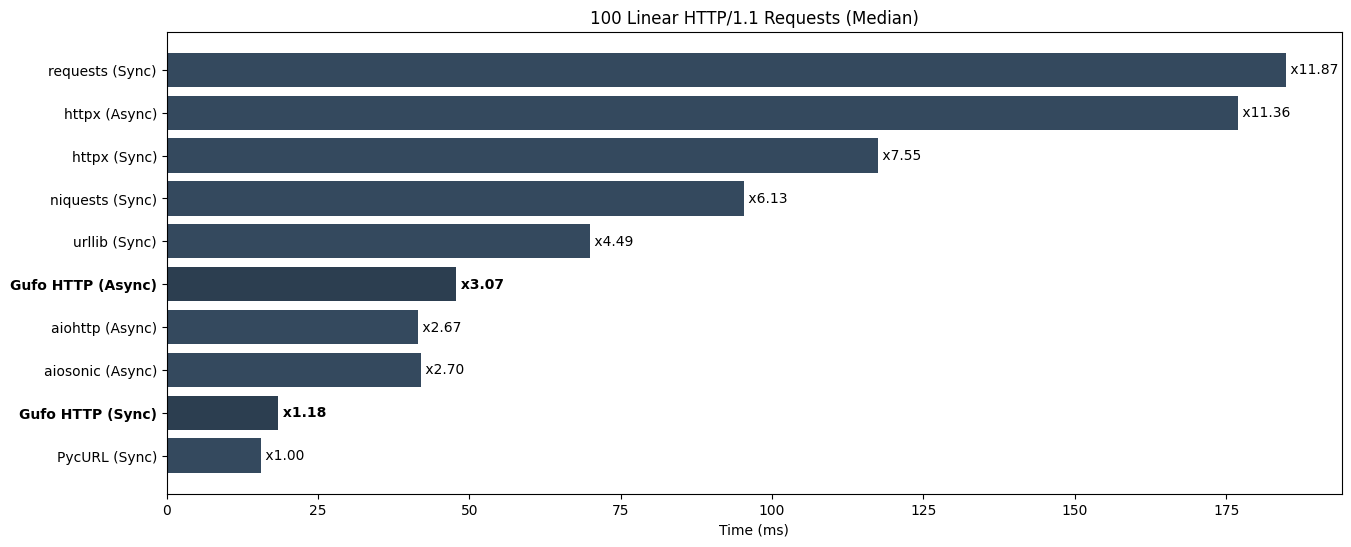
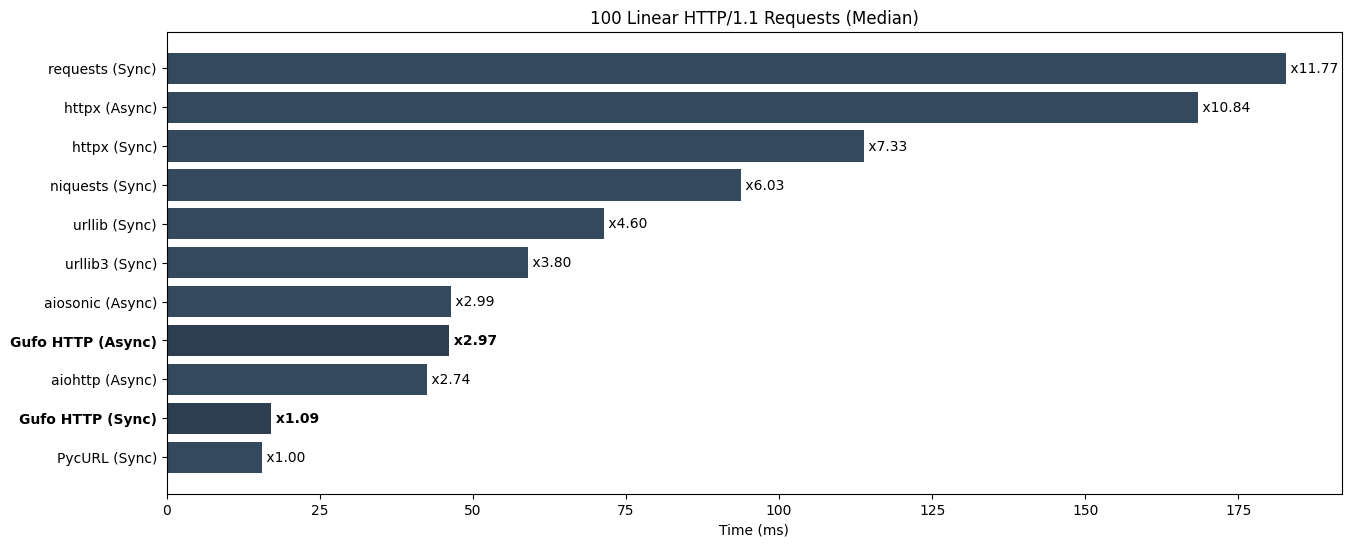
New benchmark results

diff --git a/tools/docs/update-bench-charts.py b/tools/docs/update-bench-charts.py
@@ -178,7 +178,7 @@ def iter_results(path: str) -> Iterable[Tuple[str, List[Tuple[str, float]]]]:
 def main() -> None:
     """Main function."""
     for bench, (scale, data) in zip(
-        BENCHMARKS, iter_results("benchmarks/README.md")
+        BENCHMARKS, iter_results("docs/benchmarks.md")
     ):
         build_barchart(bench, data, scale)
 

diff --git a/benchmarks/README.md b/benchmarks/README.md
@@ -1,227 +1,10 @@
----
-hide:
-    - navigation
----
-# Python HTTP Clients Benchmark
+# Gufo HTTP Bencmarks Suite
 
-!!! warning
+This directory contains Gufo HTTP benchmark suite
+which evaluates performance agains most commonly
+used Python HTTP Clients.
 
-    All following information is provided only for reference.
-    These tests are performed by [Gufo Labs][Gufo Labs] to estimate the performance
-    of [Gufo HTTP][Gufo HTTP] against major competitors, so they cannot be considered
-    independent and unbiased.
+See [bencmark section][benchmarks] for latest
+actual report.
 
-    Although performance is an absolute requirement for [Gufo Stack][Gufo Stack],
-    other factors such as maturity, community, features, examples, and existing code base
-    should also be considered.
-
-We're comparing:
-
-- [Gufo HTTP][Gufo HTTP] (current version)
-- [aiohttp][aiohttp]
-- [aiosonic][aiosonic]
-- [httpx][httpx]
-- [requests][requests]
-- [niquests][niquests]
-- [PycURL][pycurl]
-- [urllib][urllib] from Python standard library
-- [urllibb3][urllib3]
-
-Both synchronous and asynchronous tests are conducted if supported by the library.
-Libraries are tested against a local nginx installation provided by the `gufo.http.httpd` wrapper.
-We're using median value to rank the benchmarks.
-
-## Preparing
-
-We're using AWS EC2 t2.xlarge (64 bit) instance with Debian 12.
-
-Prepare node:
-```
-sudo apt-get update
-sudo apt-get install --yes git python3.11-venv
-python3 -m venv bench
-cd bench
-. bin/activate
-```
-
-Clone repo:
-```
-git clone https://github.com/gufolabs/gufo_http.git
-cd gufo_http
-```
-
-Install local nginx:
-```
-./tools/build/setup-nginx.sh
-```
-
-Install dependencies:
-
-```
-pip3 install -r .requirements/test.txt -r .requirements/bench.txt gufo-http
-```
-
-## Single HTTP/1.1 Requests
-
-Perform http requests to read 1kb text file. This test evaluates:
-
-* The cost of client's initialization.
-* The efficiency of the network code.
-* The efficiency HTTP/1.1 parser. 
-
-Run tests:
-```
-pytest benchmarks/test_single_x100_1k.py
-```
-
-### Results (lower is better)
-```
-================================================================= test session starts =================================================================
-platform linux -- Python 3.11.2, pytest-7.4.3, pluggy-1.4.0
-benchmark: 4.0.0 (defaults: timer=time.perf_counter disable_gc=False min_rounds=5 min_time=0.000005 max_time=1.0 calibration_precision=10 warmup=False warmup_iterations=100000)
-rootdir: /home/admin/bench/gufo_http
-plugins: anyio-4.3.0, benchmark-4.0.0
-collected 10 items                                                                                                                                    
-
-benchmarks/test_single_x100_1k.py ..........                                                                                                    [100%]
-
-
------------------------------------------------------------------------------------------------ benchmark: 10 tests -----------------------------------------------------------------------------------------------
-Name (time in us)                Min                    Max                   Mean                StdDev                 Median                   IQR            Outliers         OPS            Rounds  Iterations
--------------------------------------------------------------------------------------------------------------------------------------------------------------------------------------------------------------------
-test_pycurl_sync            552.7600 (1.0)         912.4570 (1.0)         627.4404 (1.0)         47.1721 (1.06)        614.9810 (1.0)         50.2328 (1.00)       121;29  1,593.7769 (1.0)         577           1
-test_urllib_sync            642.2560 (1.16)        942.6400 (1.03)        716.9010 (1.14)        44.3196 (1.0)         707.1500 (1.15)        50.1018 (1.0)         83;13  1,394.8927 (0.88)        319           1
-test_gufo_http_sync         974.8750 (1.76)      2,369.4640 (2.60)      1,078.5705 (1.72)        84.3947 (1.90)      1,064.8040 (1.73)        68.3635 (1.36)        43;13    927.1531 (0.58)        449           1
-test_gufo_http_async      1,412.6310 (2.56)      2,331.5960 (2.56)      1,563.8148 (2.49)        96.4462 (2.18)      1,545.4200 (2.51)        95.4475 (1.91)        58;14    639.4619 (0.40)        377           1
-test_niquests_sync        1,550.6730 (2.81)     21,700.8490 (23.78)     1,816.3988 (2.89)       936.3856 (21.13)     1,684.6870 (2.74)       165.0163 (3.29)         3;74    550.5399 (0.35)        479           1
-test_requests_sync        1,739.7430 (3.15)      3,095.1940 (3.39)      1,887.8259 (3.01)       125.4138 (2.83)      1,861.5670 (3.03)        81.0945 (1.62)        20;16    529.7099 (0.33)        205           1
-test_aiosonic_async       1,946.5800 (3.52)      3,595.9540 (3.94)      2,181.6655 (3.48)       228.6378 (5.16)      2,110.4205 (3.43)       106.0000 (2.12)        41;42    458.3654 (0.29)        394           1
-test_aiohttp_async        2,177.3450 (3.94)      6,310.3440 (6.92)      2,371.1405 (3.78)       287.4802 (6.49)      2,336.2120 (3.80)       112.2787 (2.24)          4;6    421.7380 (0.26)        339           1
-test_httpx_sync          45,358.3610 (82.06)    59,893.9320 (65.64)    48,566.7703 (77.40)    3,721.1132 (83.96)    47,275.3950 (76.87)    1,676.9437 (33.47)         2;2     20.5902 (0.01)         21           1
-test_httpx_async         47,650.0620 (86.20)    60,349.6870 (66.14)    50,683.2971 (80.78)    3,316.6865 (74.84)    49,802.8250 (80.98)    2,193.1260 (43.77)         2;2     19.7304 (0.01)         17           1
--------------------------------------------------------------------------------------------------------------------------------------------------------------------------------------------------------------------
-
-Legend:
-  Outliers: 1 Standard Deviation from Mean; 1.5 IQR (InterQuartile Range) from 1st Quartile and 3rd Quartile.
-  OPS: Operations Per Second, computed as 1 / Mean
-================================================================= 10 passed in 9.12s ==================================================================
-```
-
-![Median chart](single_x100_1k.png)
-
-## 100 Linear HTTP/1.1 Requests
-
-Perform set of 100 linear http requests to read 1kb text file using single client session
-whenever possible. This test evaluates:
-
-* The efficiency of the network code.
-* The efficency of the HTTP/1.1 parser.
-* An ability to maintain connection pools.
-
-Run tests:
-```
-pytest benchmarks/test_linear_x100_1k.py
-```
-
-### Results (lower is better)
-```
-================================================================= test session starts =================================================================
-platform linux -- Python 3.11.2, pytest-7.4.3, pluggy-1.4.0
-benchmark: 4.0.0 (defaults: timer=time.perf_counter disable_gc=False min_rounds=5 min_time=0.000005 max_time=1.0 calibration_precision=10 warmup=False warmup_iterations=100000)
-rootdir: /home/admin/bench/gufo_http
-plugins: anyio-4.3.0, benchmark-4.0.0
-collected 10 items                                                                                                                                    
-
-benchmarks/test_linear_x100_1k.py ..........                                                                                                    [100%]
-
-
------------------------------------------------------------------------------------ benchmark: 10 tests ------------------------------------------------------------------------------------
-Name (time in ms)             Min                 Max                Mean            StdDev              Median               IQR            Outliers      OPS            Rounds  Iterations
---------------------------------------------------------------------------------------------------------------------------------------------------------------------------------------------
-test_pycurl_sync          14.8286 (1.0)       16.5635 (1.0)       15.5543 (1.0)      0.3471 (1.0)       15.5732 (1.0)      0.3715 (1.0)          16;3  64.2911 (1.0)          60           1
-test_gufo_http_sync       16.9257 (1.14)      19.6100 (1.18)      18.3076 (1.18)     0.6682 (1.93)      18.4208 (1.18)     1.0598 (2.85)         20;0  54.6223 (0.85)         52           1
-test_aiosonic_async       40.1948 (2.71)      44.1372 (2.66)      42.1504 (2.71)     1.0503 (3.03)      42.0433 (2.70)     1.4114 (3.80)         10;0  23.7246 (0.37)         24           1
-test_aiohttp_async        40.7918 (2.75)      43.3388 (2.62)      41.7451 (2.68)     0.7409 (2.13)      41.5796 (2.67)     0.9894 (2.66)          6;0  23.9549 (0.37)         24           1
-test_gufo_http_async      45.3282 (3.06)      49.3405 (2.98)      47.8282 (3.07)     0.8637 (2.49)      47.8277 (3.07)     0.7030 (1.89)          4;2  20.9082 (0.33)         21           1
-test_urllib_sync          68.0795 (4.59)      70.9134 (4.28)      69.8699 (4.49)     0.8885 (2.56)      69.9497 (4.49)     1.4723 (3.96)          5;0  14.3123 (0.22)         15           1
-test_niquests_sync        93.1297 (6.28)     120.2415 (7.26)      97.6183 (6.28)     7.5677 (21.80)     95.3918 (6.13)     1.0791 (2.90)          1;2  10.2440 (0.16)         11           1
-test_httpx_sync          116.7218 (7.87)     120.3223 (7.26)     118.3450 (7.61)     1.3440 (3.87)     117.5656 (7.55)     2.3315 (6.28)          3;0   8.4499 (0.13)          9           1
-test_httpx_async         172.9347 (11.66)    183.8432 (11.10)    177.3365 (11.40)    3.9560 (11.40)    176.9523 (11.36)    5.5285 (14.88)         2;0   5.6390 (0.09)          6           1
-test_requests_sync       181.9891 (12.27)    187.1860 (11.30)    184.6352 (11.87)    2.0526 (5.91)     184.8448 (11.87)    3.3744 (9.08)          2;0   5.4161 (0.08)          6           1
---------------------------------------------------------------------------------------------------------------------------------------------------------------------------------------------
-
-Legend:
-  Outliers: 1 Standard Deviation from Mean; 1.5 IQR (InterQuartile Range) from 1st Quartile and 3rd Quartile.
-  OPS: Operations Per Second, computed as 1 / Mean
-================================================================= 10 passed in 14.29s =================================================================
-```
-
-![Median chart](linear_x100_1k.png)
-
-## 100 Parallel HTTP/1.1 Requests
-
-Perform 100 HTTP/1.1 requests to read 1kb text file with concurrency of 4 maintaininng
-single client session per thread/coroutine.
-
-* The efficiency of the network code.
-* The efficency of the HTTP/1.1 parser.
-* An ability to maintain connection pools.
-* Granularity of the internal locs.
-* Ability to release GIL when runnning native code.
-
-Run tests:
-```
-pytest benchmarks/test_p4_x100_1k.py
-```
-
-### Results (lower is better)
-```
-================================================================= test session starts =================================================================
-platform linux -- Python 3.11.2, pytest-7.4.3, pluggy-1.4.0
-benchmark: 4.0.0 (defaults: timer=time.perf_counter disable_gc=False min_rounds=5 min_time=0.000005 max_time=1.0 calibration_precision=10 warmup=False warmup_iterations=100000)
-rootdir: /home/admin/bench/gufo_http
-plugins: anyio-4.3.0, benchmark-4.0.0
-collected 10 items                                                                                                                                    
-
-benchmarks/test_p4_x100_1k.py ..........                                                                                                        [100%]
-
-
------------------------------------------------------------------------------------- benchmark: 10 tests ------------------------------------------------------------------------------------
-Name (time in ms)             Min                 Max                Mean            StdDev              Median               IQR            Outliers       OPS            Rounds  Iterations
----------------------------------------------------------------------------------------------------------------------------------------------------------------------------------------------
-test_pycurl_sync           8.5505 (1.0)       11.6985 (1.0)        9.7086 (1.0)      0.6270 (1.0)        9.5728 (1.0)      0.8207 (1.66)         28;3  103.0011 (1.0)          99           1
-test_gufo_http_sync        8.9141 (1.04)      11.8996 (1.02)      10.2942 (1.06)     0.6789 (1.08)      10.2281 (1.07)     0.8919 (1.80)         27;0   97.1422 (0.94)         80           1
-test_gufo_http_async      31.1233 (3.64)      39.0700 (3.34)      32.9239 (3.39)     1.3814 (2.20)      32.5340 (3.40)     1.0728 (2.17)          2;1   30.3731 (0.29)         29           1
-test_aiosonic_async       34.5276 (4.04)      39.8711 (3.41)      36.3939 (3.75)     1.1697 (1.87)      36.4312 (3.81)     1.7261 (3.49)          8;1   27.4772 (0.27)         29           1
-test_aiohttp_async        38.0094 (4.45)      49.1993 (4.21)      39.3207 (4.05)     2.1364 (3.41)      38.8432 (4.06)     0.4950 (1.0)           1;2   25.4319 (0.25)         25           1
-test_urllib_sync          43.8279 (5.13)      48.2060 (4.12)      44.9540 (4.63)     0.9605 (1.53)      44.6689 (4.67)     1.0362 (2.09)          5;1   22.2449 (0.22)         21           1
-test_niquests_sync       101.4105 (11.86)    127.8796 (10.93)    105.9729 (10.92)    7.7871 (12.42)    104.0052 (10.86)    1.3018 (2.63)          1;1    9.4364 (0.09)         10           1
-test_requests_sync       166.1476 (19.43)    168.5516 (14.41)    167.5796 (17.26)    0.8505 (1.36)     167.7444 (17.52)    0.9684 (1.96)          2;0    5.9673 (0.06)          6           1
-test_httpx_sync          215.8258 (25.24)    230.6778 (19.72)    223.7639 (23.05)    5.8582 (9.34)     223.3114 (23.33)    9.0334 (18.25)         2;0    4.4690 (0.04)          5           1
-test_httpx_async         298.3353 (34.89)    303.4051 (25.94)    301.2551 (31.03)    2.0818 (3.32)     301.8729 (31.53)    3.3335 (6.73)          2;0    3.3194 (0.03)          5           1
----------------------------------------------------------------------------------------------------------------------------------------------------------------------------------------------
-
-Legend:
-  Outliers: 1 Standard Deviation from Mean; 1.5 IQR (InterQuartile Range) from 1st Quartile and 3rd Quartile.
-  OPS: Operations Per Second, computed as 1 / Mean
-================================================================= 10 passed in 14.76s =================================================================
-```
-![Median chart](p4_x100_1k.png)
-
-## Feedback
-
-If you have any ideas, comment, or thoughts on benchmark suite,
-feel free to [discuss it on GitHub][discussion].
-
-[Gufo Labs]: https://gufolabs.com/
-[Gufo Stack]: https://docs.gufolabs.com/
-[Gufo HTTP]: https://docs.gufolabs.com/gufo_http/
-[aiohttp]: https://docs.aiohttp.org/en/stable/
-[aiosonic]: https://aiosonic.readthedocs.io/en/latest/
-[httpx]: https://www.python-httpx.org
-[requests]: https://requests.readthedocs.io/en/latest/
-[niquests]: https://niquests.readthedocs.io/en/stable/
-[pycurl]: http://pycurl.io/
-[urllib]: https://docs.python.org/3/library/urllib.request.html#module-urllib.request
-[urllib3]: https://urllib3.readthedocs.io/en/stable/
-[discussion]: https://github.com/gufolabs/gufo_http/discussions/2
+[benchmarks]: https://docs.gufolabs.com/gufo_http/benchmarks/
